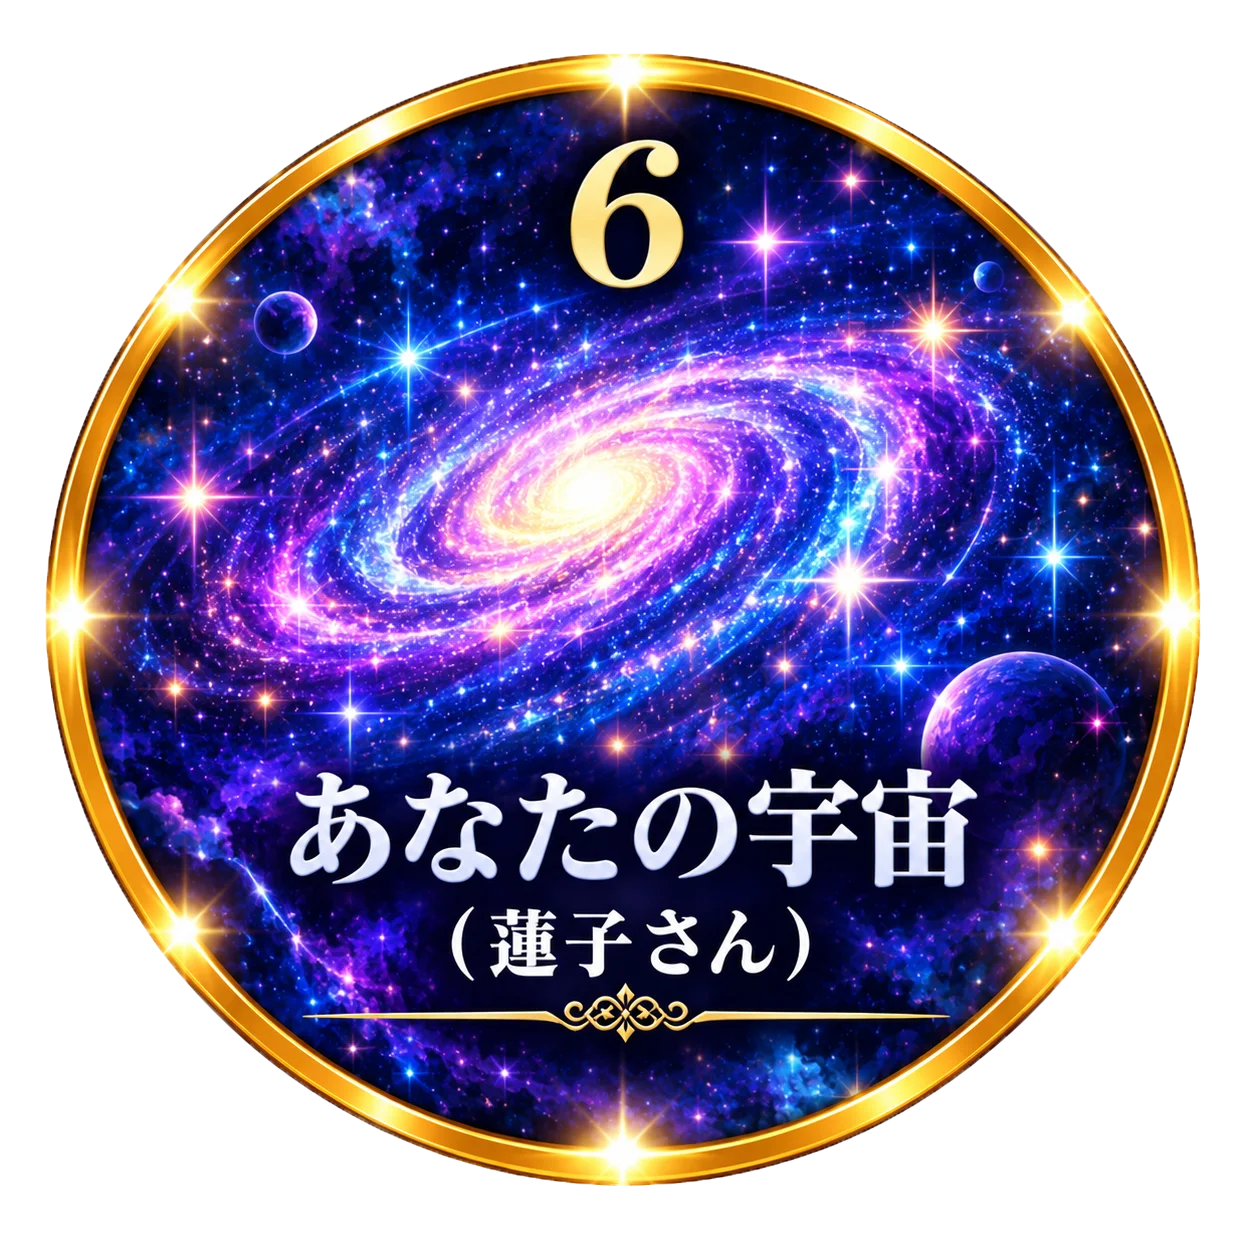
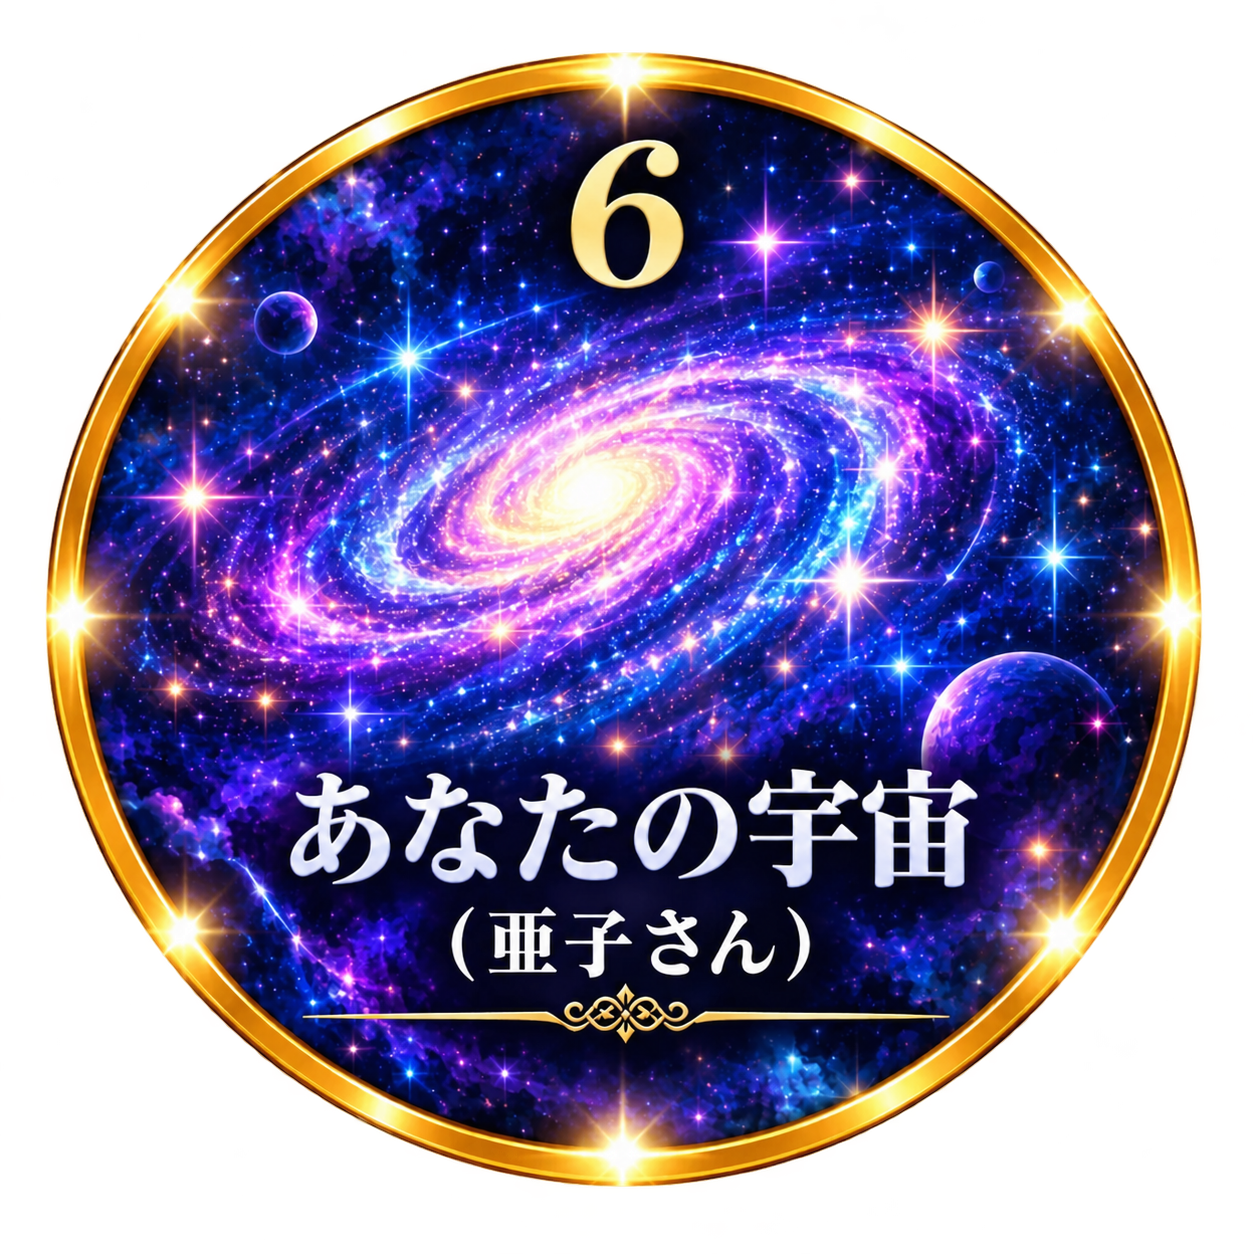
6番の名前と丸画像を亜子さんに修正

diff --git a/pages/hinto6.html b/pages/hinto6.html
@@ -7,7 +7,7 @@
     <link rel="icon" type="image/webp" href="../images/top-images/favicon.webp">
     <link rel="preconnect" href="https://use.typekit.net">
     <link rel="preconnect" href="https://p.typekit.net" crossorigin>
-    <title>あなたの宇宙(蓮子さん)</title>
+    <title>あなたの宇宙(亜子さん)</title>
     <link rel="stylesheet" href="../css/style.css" />
     <link rel="stylesheet" href="../css/responsive.css" />
     <link rel="stylesheet" href="https://use.typekit.net/wgy8pla.css">
@@ -63,8 +63,8 @@
 
     <main>
         <section class="hint-detail">
-            <h2>6.あなたの宇宙(蓮子さん)</h2>
-            <img src="../images/top-images/hinto6.webp" alt="あなたの宇宙(蓮子さん)" width="1254" height="1254" />
+            <h2>6.あなたの宇宙(亜子さん)</h2>
+            <img src="../images/top-images/hinto6.webp" alt="あなたの宇宙(亜子さん)" width="1254" height="1254" />
         </section>
 
         <footer class="footer-animation-pending">

diff --git a/index.html b/index.html
@@ -174,7 +174,7 @@
               width="1254" height="1254">
           </a>
           <a href="pages/hinto6.html" class="eightTips-link">
-            <img src="images/top-images/hinto6.webp" class="eightTips-item eightTips-item--6" alt="あなたの宇宙(蓮子さん)"
+            <img src="images/top-images/hinto6.webp" class="eightTips-item eightTips-item--6" alt="あなたの宇宙(亜子さん)"
               width="1254" height="1254">
           </a>
           <a href="pages/hinto7.html" class="eightTips-link">
